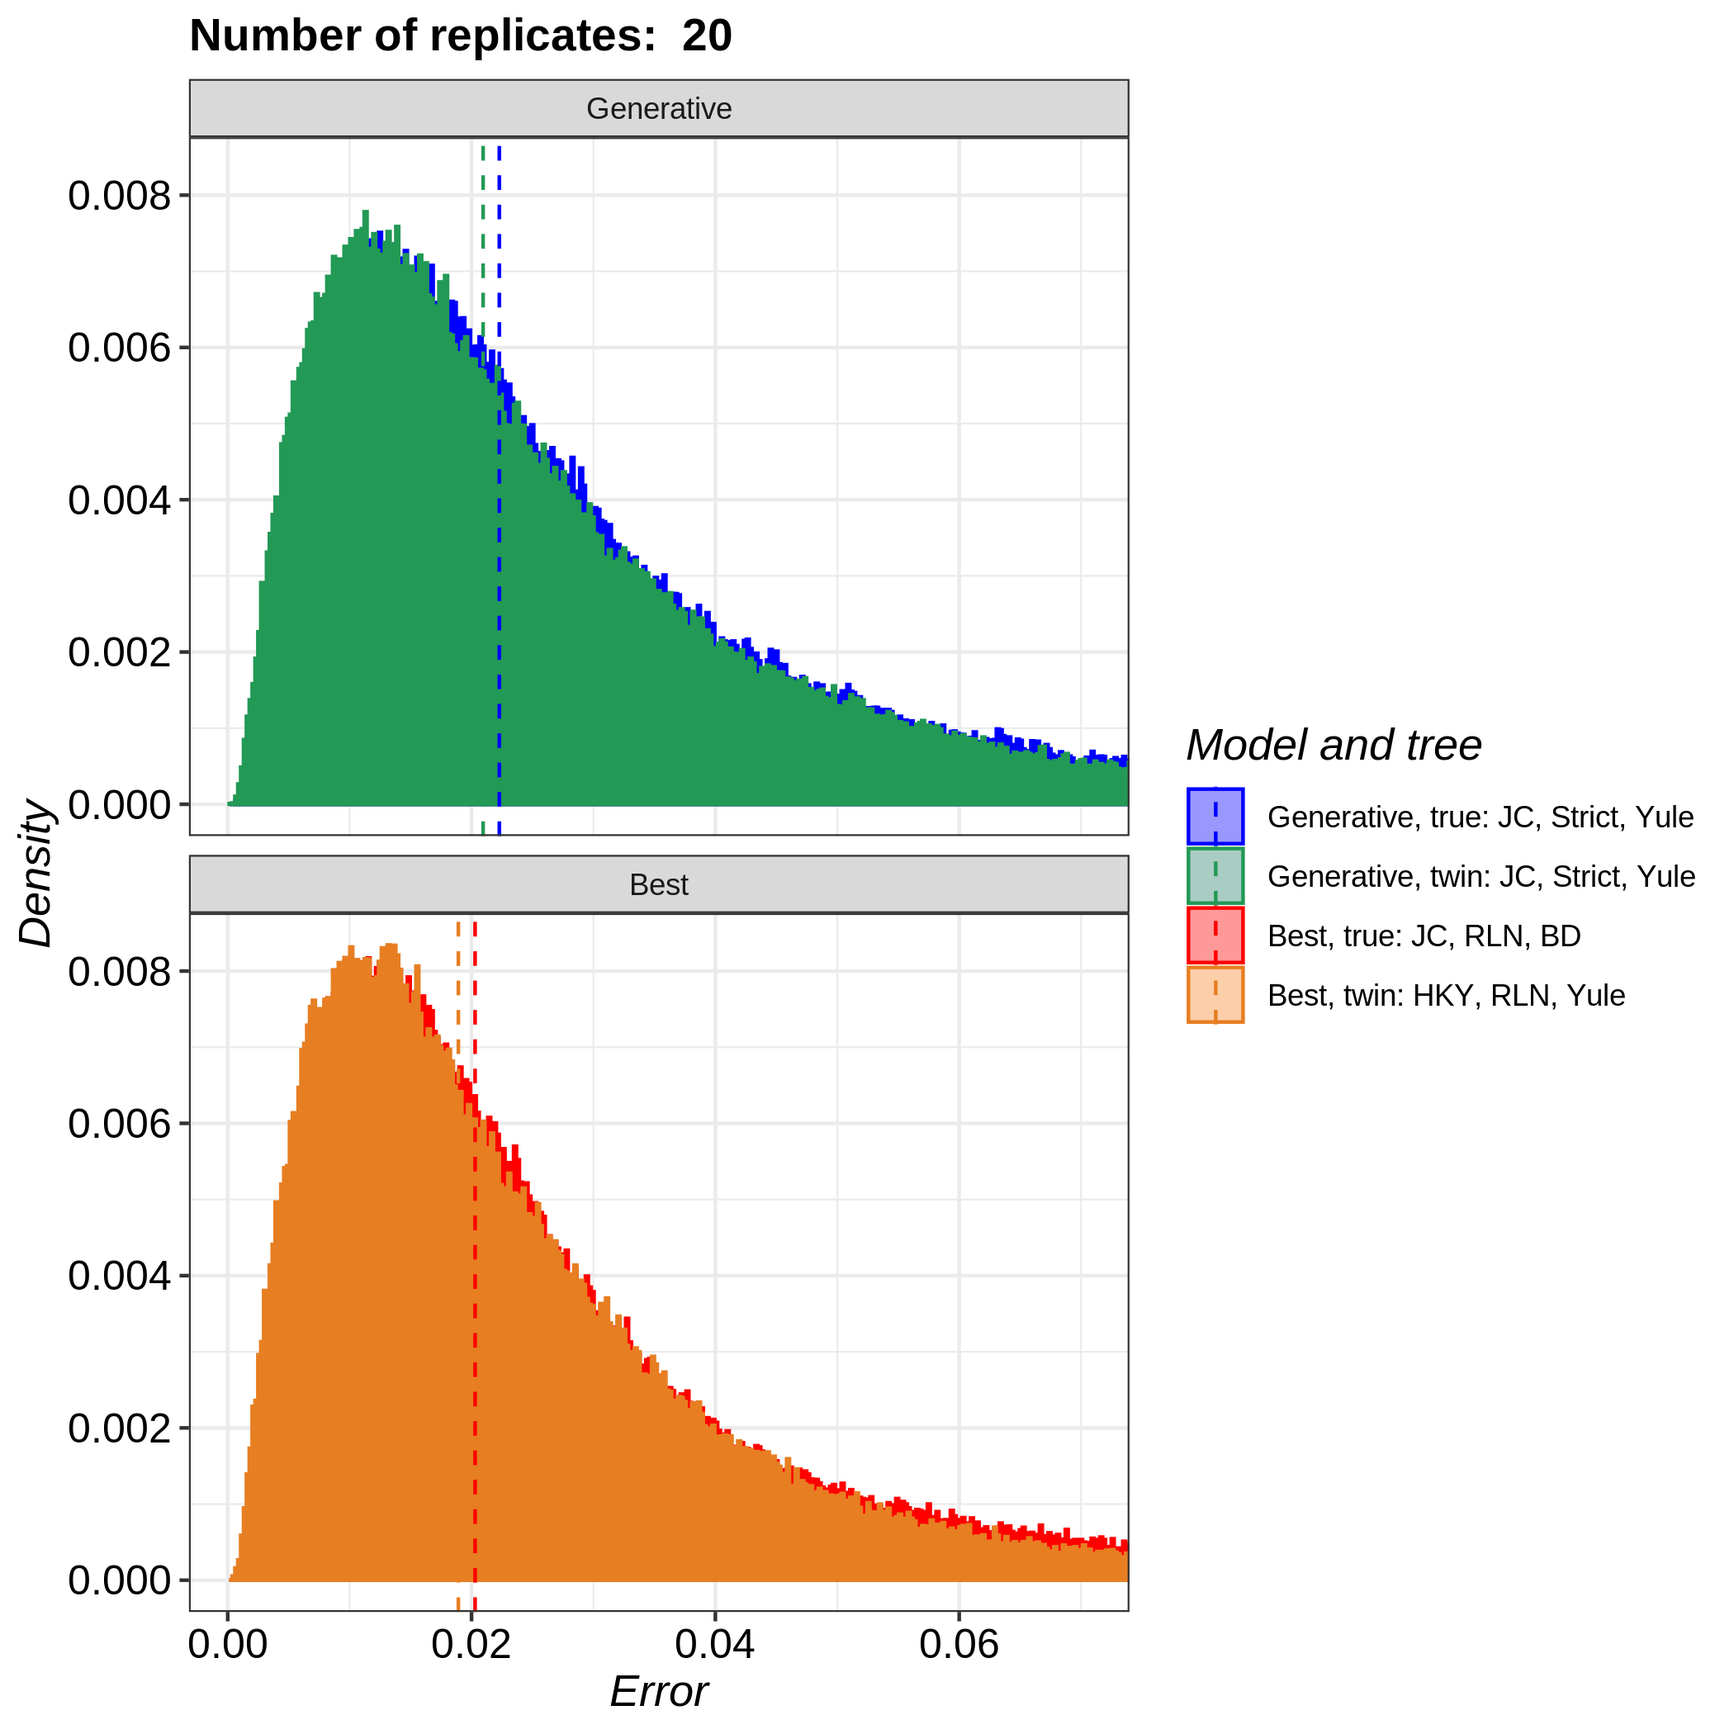
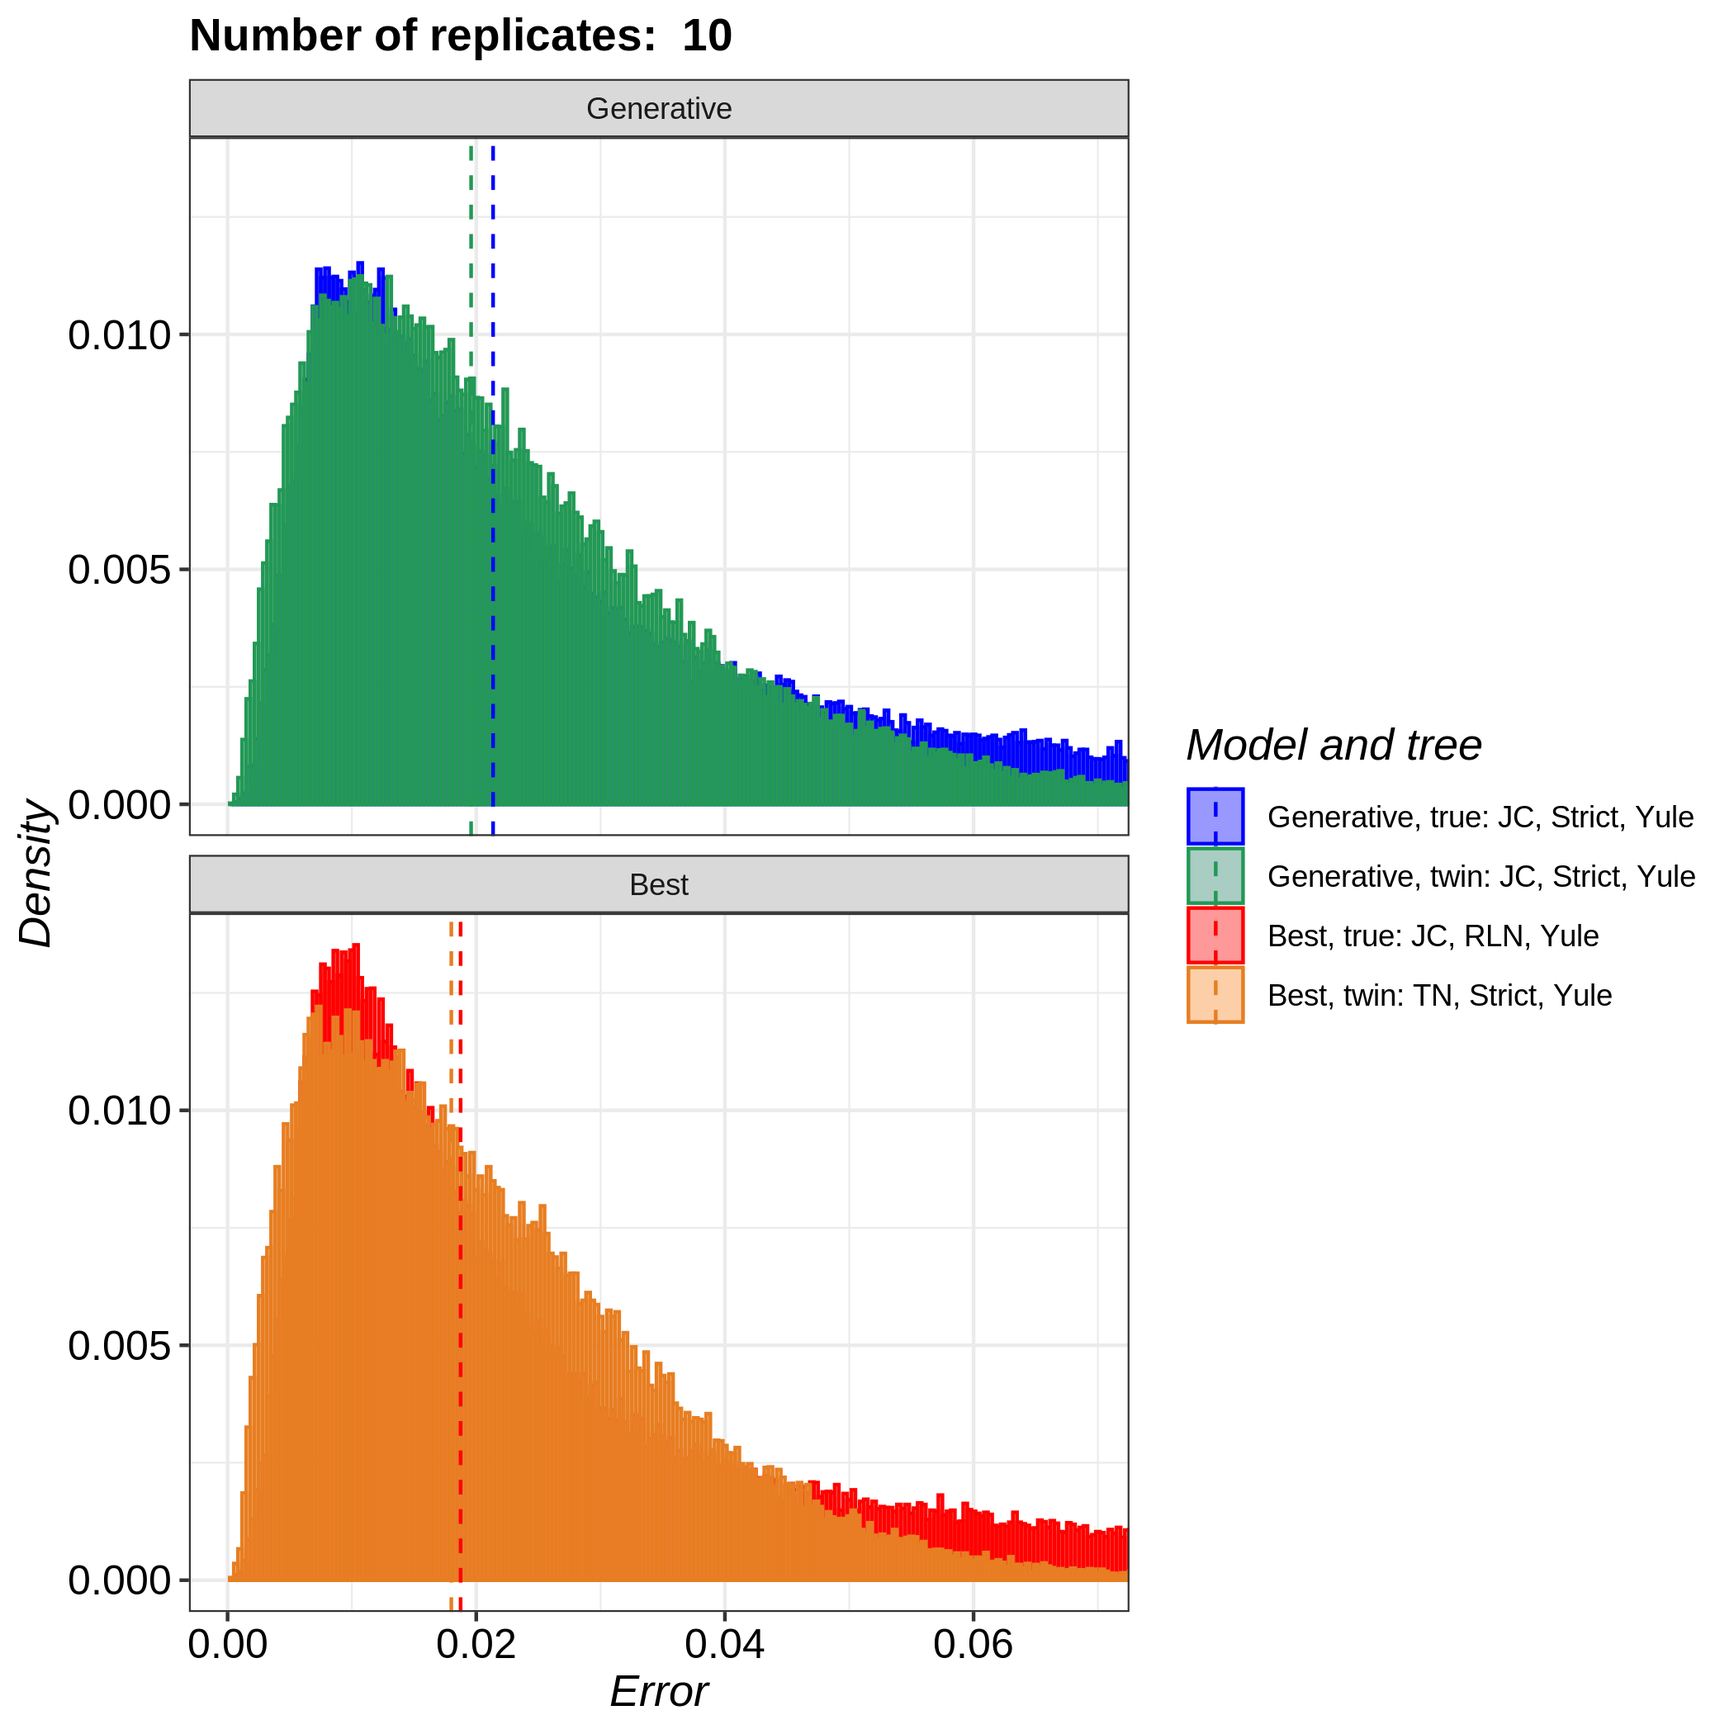
Changes @Giappo

diff --git a/pirouette_supplement.tex b/pirouette_supplement.tex
@@ -388,16 +388,21 @@ This subsection extends the main example, by using multiple (instead of
 one) trees. These trees are produced by running a DD tree simulation
 with the same parameters as the main example.
 
-The code to reproduce this figure can be found at  
-\begin{sloppypar}
-  \url{https://github.com/richelbilderbeek/pirouette_example_28}.
-\end{sloppypar}
-
 \begin{figure}[H]
   \includegraphics[width=\textwidth]{pirouette_example_28/errors.png}
   \caption{Aggregate error distributions, similar to Fig. \ref{fig:example_30} for the main example, but now for a collection of 20 replicate trees. For each setting (true generative, true best candidate, twin generative and twin best candidate), the resulting errors from each replicate pipeline have been merged into a single distribution.}
   \label{fig:replicate_trees}
 \end{figure}
+
+\new{
+The resulting error distributions are showed in Fig. \ref{fig:replicate_trees}. We present results for cases where (1) the generative model has been used or (2) the model with highest evidence has been selected for the inference.
+From the plots we can see that in both cases there is a clear distinction between the two distributions (true and twin), suggesting that the inference models that have been used cannot capture in an accurate way the features of the diversity-dependent tree prior used to simulate the original trees. 
+}
+
+The code to reproduce Fig. \ref{fig:replicate_trees} can be found at  
+\begin{sloppypar}
+  \url{https://github.com/richelbilderbeek/pirouette_example_28}.
+\end{sloppypar}
 
 \newpage
 
@@ -410,7 +415,41 @@ The main example uses 6 taxa. Here we show the same results as the main example,
 except for a varying number of taxa. We did so, by setting the DD model's
 carrying capacity to the desired number of taxa.
 
-The code to reproduce these figure can be found at  
+\begin{figure}[H]
+  \includegraphics[width=\textwidth]{pirouette_example_28/errors.png}
+  \caption{Aggregate error distributions for 20 replicates. Here each true tree has 6 taxa. This took 16 hours to compute.}
+  \label{fig:example_6_taxa}
+\end{figure}
+
+\begin{figure}[H]
+  \includegraphics[width=\textwidth]{pirouette_example_32/errors.png}
+  \caption{Aggregate error distributions for 10 replicates. Here each true tree has 12 taxa. This took 19 hours to compute.}
+  \label{fig:example_12_taxa}
+\end{figure}
+
+\begin{figure}[H]
+  \includegraphics[width=\textwidth]{pirouette_example_33/errors.png}
+    \caption{Aggregate error distributions for 20 replicates. Here each true tree has 24 taxa. This took 28 hours to compute.}
+    \label{fig:example_24_taxa}
+\end{figure}
+
+\begin{figure}[H]
+  \includegraphics[width=\textwidth]{pirouette_example_41/errors.png}
+  \caption{Aggregate error distributions for 5 replicates. Here each true tree has 32 taxa. This took 7 hours to compute.}
+  \label{fig:example_32_taxa}
+\end{figure}
+
+\begin{figure}[H]
+  \includegraphics[width=\textwidth]{pirouette_example_42/errors.png}
+  \caption{Aggregate error distributions for 2 replicates. Here each true tree has 40 taxa. This took 8 hours to compute.}
+  \label{fig:example_40_taxa}
+\end{figure}
+
+\new{
+We show in figures \ref{fig:example_6_taxa}, \ref{fig:example_12_taxa}, \ref{fig:example_24_taxa}, \ref{fig:example_32_taxa} and \ref{fig:example_40_taxa} what are the errors obtained when starting from phylogenies with, respectively, 6, 12, 24, 32 and 40 taxa. Again we can see that in each case errors tend to be greater in the true distribution than in the twin distribution, confirming the result of the previous paragraph. However we cannot detect a clear trend between the number of taxa of the original phylogeny and the extent of such discrepancy. Due to long computational times we have been able to provide data only for a limited amount of replicates. We cannot exclude that a clearer trend could be observed increasing the number of replicates.
+}
+
+The code to reproduce these figures can be found at  
 \begin{sloppypar}
   \url{https://github.com/richelbilderbeek/pirouette_example_28} (6 taxa, main example),
   \url{https://github.com/richelbilderbeek/pirouette_example_32} (12 taxa),
@@ -419,30 +458,7 @@ The code to reproduce these figure can be found at
   \url{https://github.com/richelbilderbeek/pirouette_example_42} (40 taxa). 
 \end{sloppypar}
 
-\begin{figure}[H]
-  \includegraphics[width=\textwidth]{pirouette_example_28/errors.png}
-  \caption{Aggregate error distributions for 20 replicates. Here each true tree has 6 taxa. This took 16 hours to compute.}
-\end{figure}
-
-\begin{figure}[H]
-  \includegraphics[width=\textwidth]{pirouette_example_32/errors.png}
-  \caption{Aggregate error distributions for 10 replicates. Here each true tree has 12 taxa. This took 19 hours to compute.}
-\end{figure}
-
-\begin{figure}[H]
-  \includegraphics[width=\textwidth]{pirouette_example_33/errors.png}
-    \caption{Aggregate error distributions for 20 replicates. Here each true tree has 24 taxa. This took 28 hours to compute.}
-\end{figure}
-
-\begin{figure}[H]
-  \includegraphics[width=\textwidth]{pirouette_example_41/errors.png}
-  \caption{Aggregate error distributions for 5 replicates. Here each true tree has 32 taxa. This took 7 hours to compute.}
-\end{figure}
-
-\begin{figure}[H]
-  \includegraphics[width=\textwidth]{pirouette_example_42/errors.png}
-  \caption{Aggregate error distributions for 2 replicates. Here each true tree has 40 taxa. This took 8 hours to compute.}
-\end{figure}
+\newpage
 
 %%%%%%%%%%%%%%%%%%%%%%%%%%%%%%%%%%%%%%%%%%%%%%%%%%%%%%%%%%%%%%%%%%%%%%%%%%%%%%%%
 \subsection{The effect of DNA sequence length}
@@ -453,6 +469,29 @@ The main example uses a DNA alignment length of 1000 nucleotides.
 Here, we show the same results as the main example,
 except for a varying DNA alignment sequence length.
 
+\begin{figure}[H]
+  \includegraphics[width=\textwidth]{pirouette_example_19/errors.png}
+  \caption{Aggregate error distributions for 20 replicates. Here each each alignment has a sequence length of 500 nucleotides. This took 12 hours to compute.}
+  \label{fig:example_500_nucleotides}
+\end{figure}
+
+\begin{figure}[H]
+  \includegraphics[width=\textwidth]{pirouette_example_28/errors.png}
+  \caption{Aggregate error distributions for 20 replicates. Here each each alignment has a sequence length of 1000 nucleotides (as used in the main example). This took 16 hours to compute.}
+  \label{fig:example_1000_nucleotides}
+\end{figure}
+
+\begin{figure}[H]
+  \includegraphics[width=\textwidth]{pirouette_example_34/errors.png}
+  \caption{Aggregate error distributions for 10 replicates. Here each each alignment has a sequence length of 2000 nucleotides. This took 11 hours to compute.}
+  \label{fig:example_2000_nucleotides}
+\end{figure}
+
+\new{
+From figures \ref{fig:example_500_nucleotides}, \ref{fig:example_1000_nucleotides} and \ref{fig:example_2000_nucleotides} we can observe a that the discrepancy between the true and twin error distributions tend to become smaller as the number of nucleotides increase. This occurred for both the generative and best candidate cases. 
+}
+\giovanni{richel do you have an idea why this happens? Also, do we have the raw data stored somewhere? From what I can judge from the plots the median discrepancy is 0.012 for 500 nucs, 0.008 for 1000 nucs and 0.003 for 2000 nucs.}
+
 The code to reproduce these figures can be found at  
 \begin{sloppypar}
   \url{https://github.com/richelbilderbeek/pirouette_example_19} (500 nucleotides),
@@ -460,24 +499,10 @@ The code to reproduce these figures can be found at
   and \url{https://github.com/richelbilderbeek/pirouette_example_34} (2000 nucleotides).
 \end{sloppypar}
 
-
-\begin{figure}[H]
-  \includegraphics[width=\textwidth]{pirouette_example_19/errors.png}
-  \caption{Aggregate error distributions for 20 replicates. Here each each alignment has a sequence length of 500 nucleotides. This took 12 hours to compute.}
-\end{figure}
-
-\begin{figure}[H]
-  \includegraphics[width=\textwidth]{pirouette_example_28/errors.png}
-  \caption{Aggregate error distributions for 20 replicates. Here each each alignment has a sequence length of 1000 nucleotides (as used in the main example). This took 16 hours to compute.}
-\end{figure}
-
-\begin{figure}[H]
-  \includegraphics[width=\textwidth]{pirouette_example_34/errors.png}
-  \caption{Aggregate error distributions for 10 replicates. Here each each alignment has a sequence length of 2000 nucleotides. This took 11 hours to compute.}
-\end{figure}
+\newpage
 
 %%%%%%%%%%%%%%%%%%%%%%%%%%%%%%%%%%%%%%%%%%%%%%%%%%%%%%%%%%%%%%%%%%%%%%%%%%%%%%%%
-\subsection{The effect of assuming a Yule tree prior on a Yule tree}
+\subsection{Effect of assuming a Yule tree prior on a Yule tree}
 \label{subsec:simplest_correct_parameterization}
 %%%%%%%%%%%%%%%%%%%%%%%%%%%%%%%%%%%%%%%%%%%%%%%%%%%%%%%%%%%%%%%%%%%%%%%%%%%%%%%%
 
@@ -485,40 +510,54 @@ The main example uses a tree generated by a non-standard tree model.
 Here, we show the same results, with the only difference that
 the tree used is generated by simplest tree model (the Yule model),
 which we also assume as the (correct) tree prior.
-This example thus shows a parameterization at the correct level for the
+
+\begin{figure}[H]
+  \includegraphics[width=\textwidth]{pirouette_example_22/errors.png}
+  \caption{Aggregate error distributions for 10 replicates. Here each true tree is generated by a Yule process. For the inference we used a Yule tree prior. This took 9 hours to compute.}
+  \label{fig:example_yule}
+\end{figure}
+
+This example shows a parameterization at the correct level for the
 simplest case possible.
+\new{
+As expected the twin and true distributions in Fig. \ref{fig:example_yule} are extremely similar for both the generative and the best candidate case.
+}
 
 The code to reproduce this figure can be found at  
 \begin{sloppypar}
   \url{https://github.com/richelbilderbeek/pirouette_example_22}.
 \end{sloppypar}
 
-\begin{figure}[H]
-  \includegraphics[width=\textwidth]{pirouette_example_22/errors.png}
-  \caption{Aggregate error distributions for 10 replicates. Here each true tree is generated by a Yule process. For the inference we used a Yule tree prior. This took 9 hours to compute.}
-\end{figure}
+\newpage
 
 %%%%%%%%%%%%%%%%%%%%%%%%%%%%%%%%%%%%%%%%%%%%%%%%%%%%%%%%%%%%%%%%%%%%%%%%%%%%%%%%
-\subsection{The effect of assuming a Yule tree prior on a BD tree}
+\subsection{Effect of assuming a Yule tree prior on a BD tree}
 \label{subsec:under_parameterization}
 %%%%%%%%%%%%%%%%%%%%%%%%%%%%%%%%%%%%%%%%%%%%%%%%%%%%%%%%%%%%%%%%%%%%%%%%%%%%%%%%
 
 The main example uses a tree generated by a non-standard tree model.
-
 Here, we show the same results, with the difference that
 the tree used is generated by a birth-death (BD) tree model,
 where we assume it is generated by a Yule (or pure-birth) model.
 This example thus shows the effect of underparameterization.
+
+\begin{figure}[H]
+  \includegraphics[width=\textwidth]{pirouette_example_26/errors.png}
+  \caption{Aggregate error distributions for 20 replicates. Here each true tree is generated by a BD process. For the inference we used instead a Yule tree prior. This took 9 hours to compute.}
+\end{figure}
+
+\giovanni{This is the example one of the reviewer was referring to. The figure that was present before (still present in the overleaf files) looked actually quite different from the one on the repo (\url{https://raw.githubusercontent.com/richelbilderbeek/pirouette_example_26/master/errors.png}). I changed it with the one found there. In case you think this is wrong you can revert it back.}
+
+\new{
+Since the two models are very similar to each other (the BD model can be turned into a Yule model just by setting the extinction parameter to zero \giovanni{Cite Louca and Pennell here?}) the median discrepancy it's almost negligible. However, respect to the previous case when a Yule tree prior has been considered, here the distributions exhibit a greater difference in shapes.
+}
 
 The code to reproduce this figure can be found at
 \begin{sloppypar}
   \url{https://github.com/richelbilderbeek/pirouette_example_26}.
 \end{sloppypar}
 
-\begin{figure}[H]
-  \includegraphics[width=\textwidth]{pirouette_example_26/errors.png}
-  \caption{Aggregate error distributions for 20 replicates. Here each true tree is generated by a BD process. For the inference we used instead a Yule tree prior. This took 9 hours to compute.}
-\end{figure}
+\newpage
 
 %%%%%%%%%%%%%%%%%%%%%%%%%%%%%%%%%%%%%%%%%%%%%%%%%%%%%%%%%%%%%%%%%%%%%%%%%%%%%%%%
 \subsection{The effect of diversity-dependent trees differing in how likely they are under the DD process}
@@ -529,12 +568,6 @@ Here we show the results of a \verb;pirouette; run on a dataset
 of multiple DD trees that we selected for having a low, median
 and high likelihood. In this way, we effectively selected for trees
 that are rare, uncommon and common respectively.
-
-The code to reproduce these figure can be found at  
-\begin{sloppypar}
-  \url{https://github.com/richelbilderbeek/pirouette_example_23}
-\end{sloppypar}
-and took 120 hours in total.
 
 \begin{figure}[H]
   \includegraphics[width=\textwidth]{pirouette_example_23/errors_low.png}
@@ -551,6 +584,17 @@ and took 120 hours in total.
   \caption{Aggregate error distributions for a distribution of trees, where the true trees are DD with high likelihood.}
 \end{figure}
 
+\new{
+Here the median errors are similar in the three settings and similar to ones relative to the full dataset of \ref{subsec:distribution}. We can also notice that in the case of median likelihood, the twin median error appear to be lower than the true mean error. This usually is a sign that the number of replicates (in this case 10) is too low to allow us to draw precise conclusions from this test. We decided to not explore further in this direction using more simulations because computational times turned to be extremely high. The entire run took 120 hours in total.
+}
+
+The code to reproduce these figure can be found at  
+\begin{sloppypar}
+  \url{https://github.com/richelbilderbeek/pirouette_example_23}
+\end{sloppypar}.
+
+\newpage
+
 %%%%%%%%%%%%%%%%%%%%%%%%%%%%%%%%%%%%%%%%%%%%%%%%%%%%%%%%%%%%%%%%%%%%%%%%%%%%%%%%
 \subsection{The effect of equal or equalized mutation rate in the twin alignment}
 \label{subsec:different_n_mutations}
@@ -561,16 +605,21 @@ of mutations (as measured from the ancestral sequence) as the true alignment. He
 the twin alignment uses the same mutation rate, yet is not guaranteed
 to have the same number of mutations. Any difference in the error distributions can therefore also stem from a difference in the amount of information contained in the alignments.
 
+\begin{figure}[H]
+  \includegraphics[width=\textwidth]{pirouette_example_18/errors.png}
+  \caption{Aggregate error distributions similar to Fig. \ref{fig:replicate_trees}, but here the number of mutations is not imposed to be the same between true and twin alignment. Instead we just use an equal mutation rate. This took 10 hours to compute.}
+  \label{fig:example_random_mutations}
+\end{figure}
+
+\new{
+Comparing Fig. \ref{fig:example_random_mutations} to  \label{fig:replicate_trees} we can see that the extent of the error tend to increase both for the true and the twin distributions. This is probably due to the fact that 
+}
+
 The code to reproduce this figure can be found at
 \begin{sloppypar}
   \url{https://github.com/richelbilderbeek/pirouette_example_18} and
   \url{https://github.com/richelbilderbeek/pirouette_example_28}.
 \end{sloppypar}
-
-\begin{figure}[H]
-  \includegraphics[width=\textwidth]{pirouette_example_18/errors.png}
-  \caption{Aggregate error distributions similar to Fig. \ref{fig:replicate_trees}, but here the number of mutations is not imposed to be the same between true and twin alignment. Instead we just use an equal mutation rate. This took 10 hours to compute.}
-\end{figure}
 
 \clearpage
 

diff --git a/pirouette_header.tex b/pirouette_header.tex
@@ -91,6 +91,7 @@ Groningen, Groningen, The Netherlands}
 \newcommand{\giovanni}[1]{\textcolor{blue}{\textbf{[GL: #1]}}}
 \newcommand{\richel}[1]{\textcolor{orange}{\textbf{[RB: #1]}}}
 \newcommand{\rampal}[1]{\textcolor{green}{\textbf{[RSE: #1]}}}
+\newcommand{\new}[1]{\textcolor{red}{#1}}
 
 \begin{document}
 
